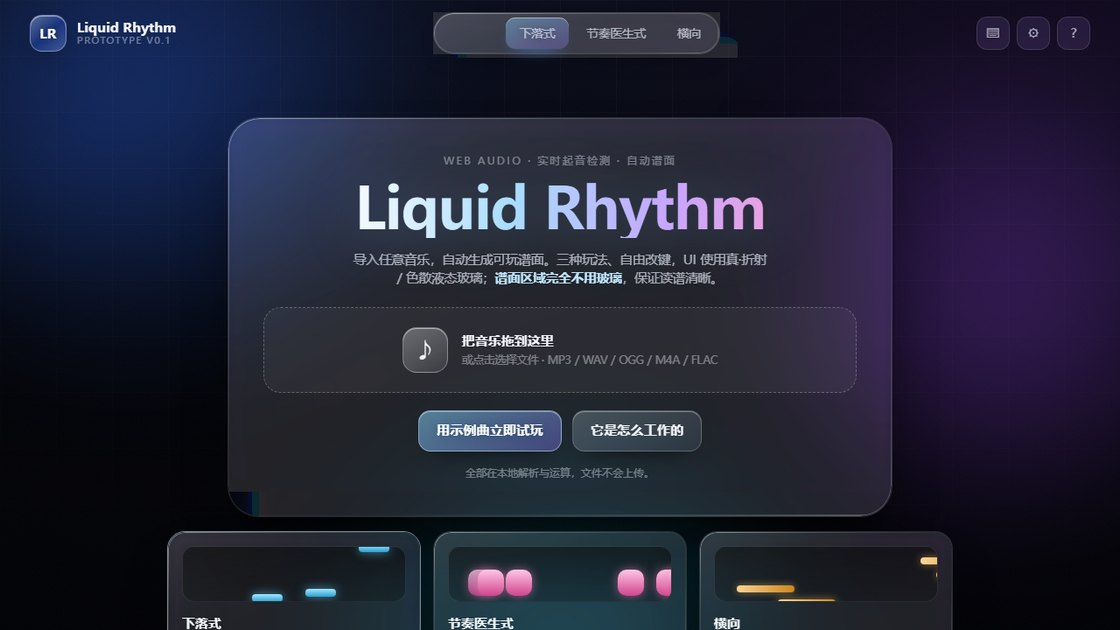
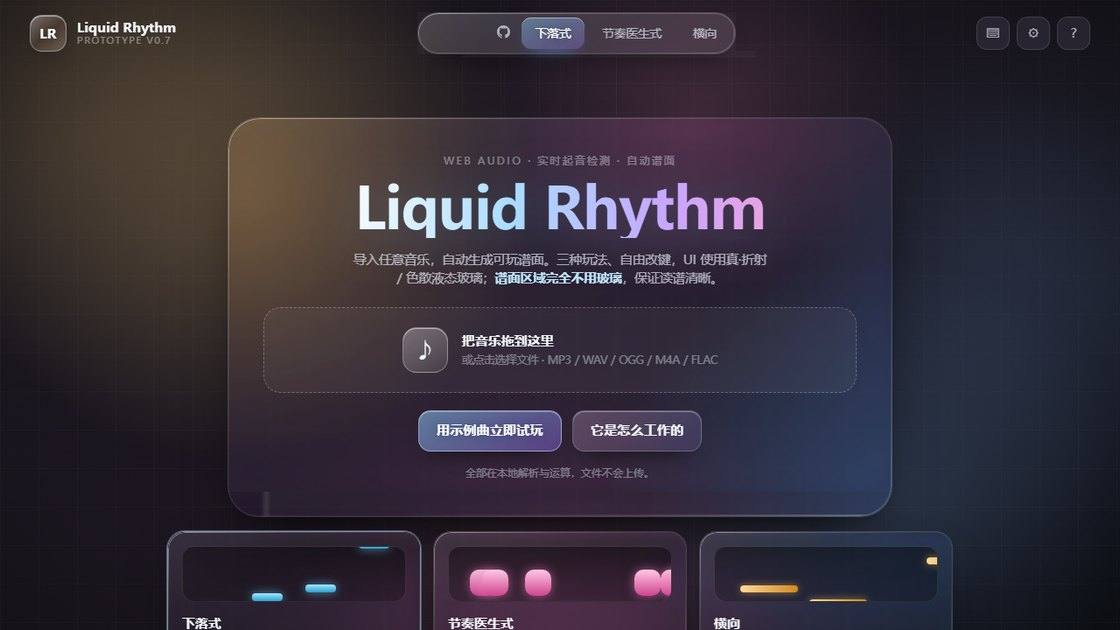
主网页添加github仓库链接

diff --git a/index.html b/index.html
@@ -32,12 +32,18 @@
       <div class="brand__text"><b>Liquid Rhythm</b><i>prototype v0.7</i></div>
     </div>
 
-    <nav class="modes glass" data-nodrag id="modeNav" role="tablist" aria-label="玩法">
+    <div class="modes glass" data-nodrag id="modeNav" role="group" aria-label="玩法与仓库链接">
       <span class="modes__glider" id="modeGlider" aria-hidden="true"></span>
-      <button class="chip" role="tab" data-mode="fall">下落式</button>
-      <button class="chip" role="tab" data-mode="rd">节奏医生式</button>
-      <button class="chip" role="tab" data-mode="side">横向</button>
-    </nav>
+        <!-- GitHub 仓库链接。放在 chip 前面不影响 .modes__glider 定位：
+             它按 chip.offsetLeft 算，前面多兄弟元素时两者一起位移，相对关系不变。 -->
+        <a class="modes__gh" id="ghLink" href="https://github.com/luobo156/liquid-rhythm"
+           target="_blank" rel="noopener noreferrer" aria-label="GitHub 仓库" title="GitHub 仓库">
+          <svg viewBox="0 0 16 16" width="15" height="15" aria-hidden="true" focusable="false"><path fill="currentColor" d="M8 0C3.58 0 0 3.58 0 8c0 3.54 2.29 6.53 5.47 7.59.4.07.55-.17.55-.38 0-.19-.01-.82-.01-1.49-2.01.37-2.53-.49-2.69-.94-.09-.23-.48-.94-.82-1.13-.28-.15-.68-.52-.01-.53.63-.01 1.08.58 1.23.82.72 1.21 1.87.87 2.33.66.07-.52.28-.87.51-1.07-1.78-.2-3.64-.89-3.64-3.95 0-.87.31-1.59.82-2.15-.08-.2-.36-1.02.08-2.12 0 0 .67-.21 2.2.82.64-.18 1.32-.27 2-.27s1.36.09 2 .27c1.53-1.04 2.2-.82 2.2-.82.44 1.1.16 1.92.08 2.12.51.56.82 1.27.82 2.15 0 3.07-1.87 3.75-3.65 3.95.29.25.54.73.54 1.48 0 1.07-.01 1.93-.01 2.2 0 .21.15.46.55.38A8.01 8.01 0 0 0 16 8c0-4.42-3.58-8-8-8z"/></svg>
+        </a>
+      <button class="chip" data-mode="fall" aria-pressed="true">下落式</button>
+      <button class="chip" data-mode="rd" aria-pressed="false">节奏医生式</button>
+      <button class="chip" data-mode="side" aria-pressed="false">横向</button>
+    </div>
 
     <div class="topbar__right">
       <button class="iconbtn" id="btnKeys" title="键位设置" aria-label="键位设置">⌨</button>

diff --git a/styles.css b/styles.css
@@ -265,6 +265,18 @@ body.perf-game .bg__blob{animation-play-state:paused}
   will-change:transform,width;
 }
 .modes .chip{position:relative;z-index:1;background:none;border:0;box-shadow:none;padding:8px 16px}
+/* 顶栏里的 GitHub 仓库链接。放在 chip 前面不影响 .modes__glider：
+   它按 chip.offsetLeft 定位，前面多了兄弟元素时 chip 和 glider 一起位移，相对关系不变。 */
+.modes__gh{
+  position:relative;z-index:1;flex:0 0 auto;
+  display:grid;place-items:center;
+  width:32px;height:32px;border-radius:999px;
+  color:var(--txt-2);text-decoration:none;
+  transition:background var(--t-2) var(--e-expo),color var(--t-2) var(--e-expo),transform var(--t-2) var(--e-back);
+}
+.modes__gh svg{display:block}
+.modes__gh:hover{background:rgba(255,255,255,.13);color:#fff;transform:translateY(-1px)}
+.modes__gh:active{transform:scale(.92)}
 .modes .chip.is-on{color:#fff;text-shadow:0 1px 8px rgba(0,0,0,.4)}
 
 .topbar__right{display:flex;gap:8px}
@@ -871,6 +883,8 @@ html.is-mobile .brand__text i{display:none}
 html.is-mobile .iconbtn{width:30px;height:30px;border-radius:9px;font-size:13px}
 html.is-mobile .modes{padding:3px}
 html.is-mobile .modes .chip{padding:5px 9px;font-size:11.5px;border-radius:9px}
+html.is-mobile .modes__gh{width:26px;height:26px}
+html.is-mobile .modes__gh svg{width:13px;height:13px}
 
 /* ---- 主菜单：整体压紧，目标是一屏看全、不用滑动 ---- */
 html.is-mobile .hero{padding:11px 11px 12px;border-radius:18px;gap:0}

diff --git a/js/ui.js b/js/ui.js
@@ -177,7 +177,11 @@ function keyLabel(code) {
 function setMode(m, silent) {
   if (currentScreen === 'game' && !silent) { toast('游戏中不能切换玩法'); return; }
   mode = m;
-  $$('#modeNav .chip').forEach(function (c) { c.classList.toggle('is-on', c.dataset.mode === m); });
+  $$('#modeNav .chip').forEach(function (c) {
+    const on = c.dataset.mode === m;
+    c.classList.toggle('is-on', on);
+    c.setAttribute('aria-pressed', String(on));
+  });
   $$('.mcard').forEach(function (c) { c.classList.toggle('is-on', c.dataset.mode === m); });
   moveGlider();
   const lanesRow = $('#optLanes').closest('.opt');

diff --git a/README.md b/README.md
@@ -225,7 +225,18 @@ python -m http.server 8000
 > **测量陷阱**：无头 Chrome 在 Windows 上有 **500px 的最小窗口宽度**，
 > 所以 `--window-size=390` 拿到的是「500px 布局裁到 390」，看起来像横向溢出，
 > 其实不是。想量真实的 390 / 360 得用固定宽度的 iframe —— 见 `test/mobile-shot.html`。
+## 自定义
+
+顶栏模式菜单左边的 GitHub 图标指向本仓库，地址写在 `index.html` 里，搜 `ghLink` 就能找到：
+
+```html
+<a class="modes__gh" id="ghLink" href="https://github.com/luobo156/liquid-rhythm" ...>
+```
+
+fork 之后换成自己的仓库地址即可。
+
 ## 项目结构
+
 
 
 ```
